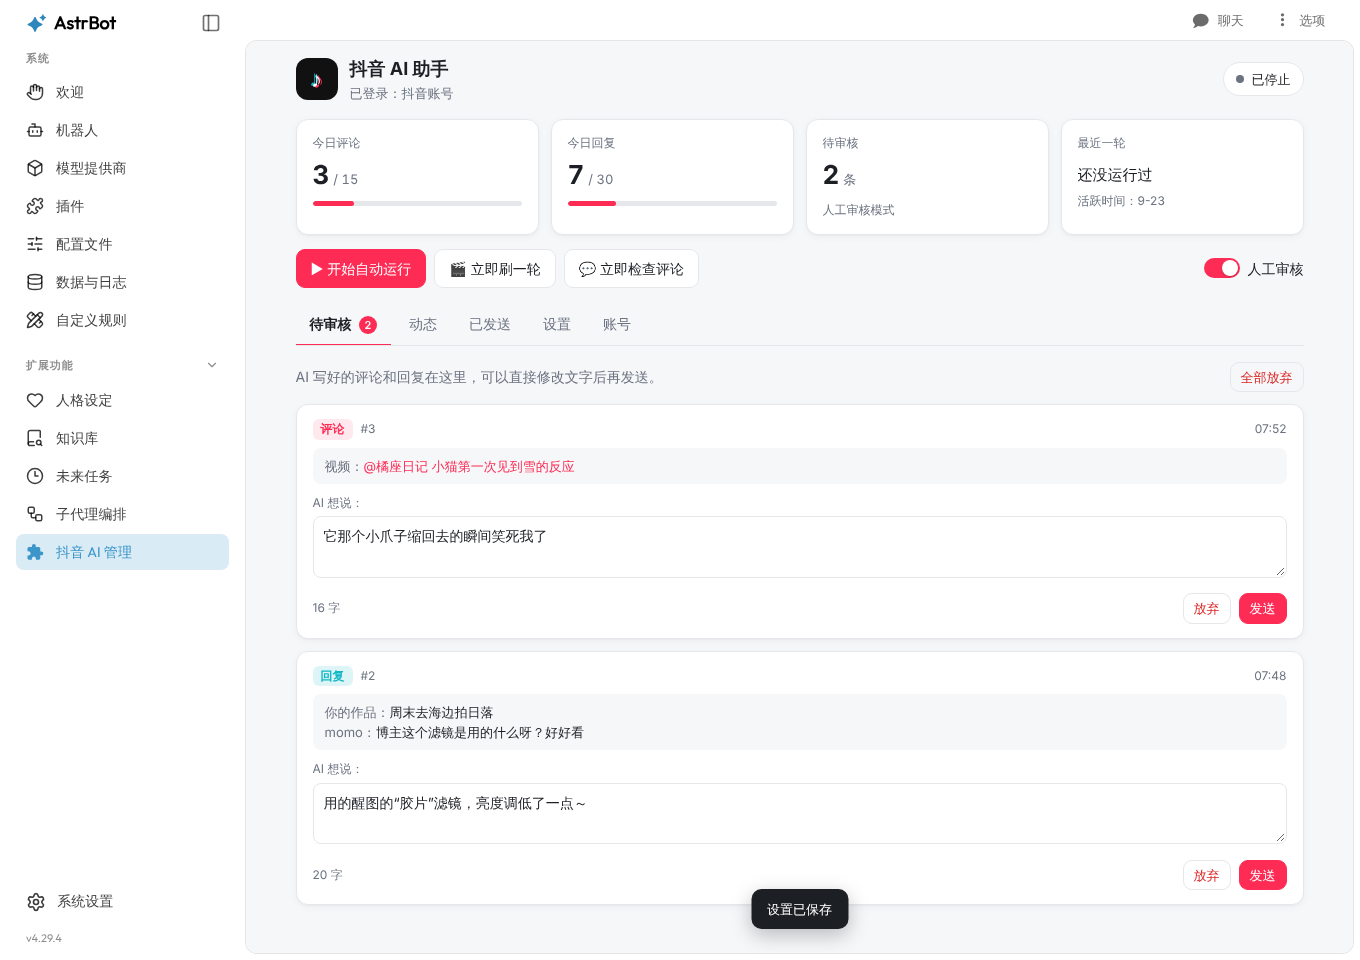
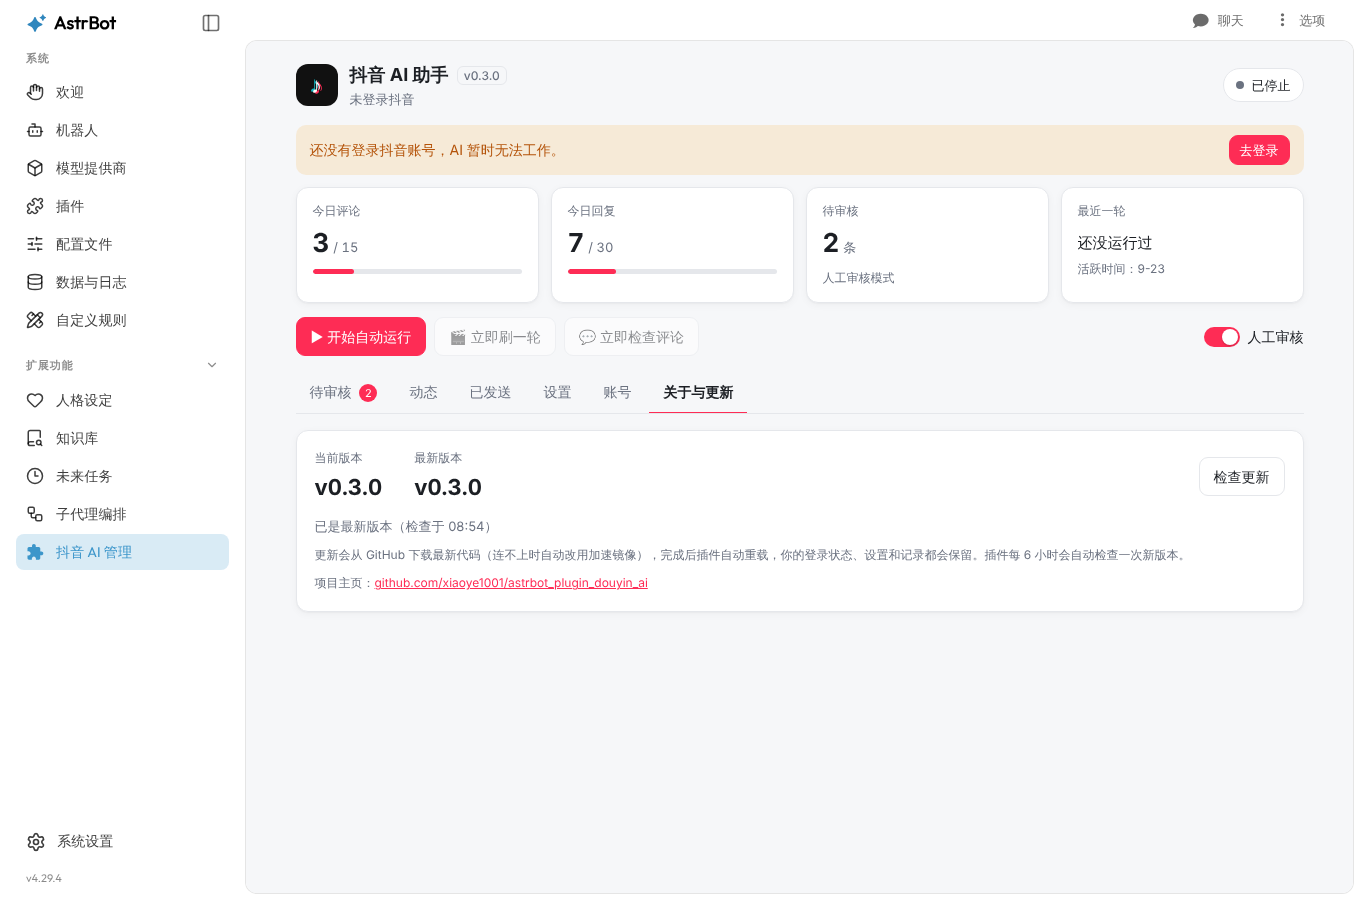
fix: 管理页面的确认操作改用页面内对话框
AstrBot 的插件页面运行在不允许弹窗的沙箱中，window.confirm() 会被直接拦截，
导致「立即更新」「全部放弃」「退出登录」点击无反应。

Claude-Session: https://claude.ai/code/session_01NcUVACVZAuCjn62zH5bUez

diff --git a/views/dashboard/app.js b/views/dashboard/app.js
@@ -51,6 +51,28 @@ function toast(msg, isError = false) {
   toastTimer = setTimeout(() => t.classList.add("hidden"), isError ? 5000 : 2800);
 }
 
+// window.confirm() is blocked inside AstrBot's sandboxed plugin iframe, so use our own dialog
+function askConfirm(message, okText = "确定", danger = false) {
+  return new Promise((resolve) => {
+    const dlg = $("confirm");
+    $("confirm-text").textContent = message;
+    const ok = $("confirm-ok");
+    ok.textContent = okText;
+    ok.className = "btn " + (danger ? "stop" : "primary");
+    dlg.classList.remove("hidden");
+    ok.focus();
+    const done = (v) => {
+      dlg.classList.add("hidden");
+      ok.onclick = $("confirm-cancel").onclick = dlg.onclick = document.onkeydown = null;
+      resolve(v);
+    };
+    ok.onclick = () => done(true);
+    $("confirm-cancel").onclick = () => done(false);
+    dlg.onclick = (e) => e.target === dlg && done(false);
+    document.onkeydown = (e) => e.key === "Escape" && done(false);
+  });
+}
+
 async function call(endpoint, body, button) {
   if (button) button.disabled = true;
   try {
@@ -323,14 +345,18 @@ $("btn-toggle").addEventListener("click", (e) =>
 $("btn-browse").addEventListener("click", (e) => call("control", { action: "browse" }, e.currentTarget));
 $("btn-reply").addEventListener("click", (e) => call("control", { action: "reply" }, e.currentTarget));
 $("quick-review").addEventListener("change", (e) => call("settings", { review_mode: e.target.checked }));
-$("btn-reject-all").addEventListener("click", (e) => {
-  if (confirm(`确定放弃全部 ${state.pending.length} 条待审核内容吗？`)) call("pending/reject", { id: "all" }, e.currentTarget);
+$("btn-reject-all").addEventListener("click", async (e) => {
+  const btn = e.currentTarget;
+  if (await askConfirm(`确定放弃全部 ${state.pending.length} 条待审核内容吗？`, "全部放弃", true))
+    call("pending/reject", { id: "all" }, btn);
 });
 $("btn-update-check").addEventListener("click", (e) => call("update/check", {}, e.currentTarget));
 for (const id of ["btn-update-run", "btn-update-banner"]) {
-  $(id).addEventListener("click", (e) => {
+  $(id).addEventListener("click", async (e) => {
+    const btn = e.currentTarget;
     const u = state.update;
-    if (confirm(`更新到 v${u.latest}？更新期间插件会重载，大约需要几十秒。`)) call("update/run", {}, e.currentTarget);
+    if (await askConfirm(`更新到 v${u.latest}？更新期间插件会重载，大约需要几十秒。`, "立即更新"))
+      call("update/run", {}, btn);
   });
 }
 $("btn-login").addEventListener("click", (e) => call("login/start", {}, e.currentTarget));
@@ -340,8 +366,10 @@ $("btn-cookie").addEventListener("click", async (e) => {
   const res = await call("login/cookie", { cookie }, e.currentTarget);
   if (res) $("cookie-input").value = "";
 });
-$("btn-logout").addEventListener("click", (e) => {
-  if (confirm("退出后需要重新扫码登录，自动运行也会停止。确定退出吗？")) call("login/logout", {}, e.currentTarget);
+$("btn-logout").addEventListener("click", async (e) => {
+  const btn = e.currentTarget;
+  if (await askConfirm("退出后需要重新扫码登录，自动运行也会停止。确定退出吗？", "退出登录", true))
+    call("login/logout", {}, btn);
 });
 
 // ---------------------------------------------------------------- polling

diff --git a/views/dashboard/style.css b/views/dashboard/style.css
@@ -201,6 +201,12 @@ legend { padding: 0 6px; font-weight: 600; }
 .notes-text { margin: 6px 0 0; padding: 12px 14px; background: var(--bg); border-radius: 8px; white-space: pre-wrap; word-break: break-word; font: 13px/1.6 inherit; font-family: inherit; max-height: 320px; overflow: auto; }
 .small-note a { color: var(--accent); }
 
+/* ---------- confirm dialog ---------- */
+.modal { position: fixed; inset: 0; background: rgba(0, 0, 0, 0.45); display: grid; place-items: center; padding: 16px; z-index: 20; }
+.modal-box { background: var(--card); border: 1px solid var(--border); border-radius: 14px; padding: 20px 22px 16px; width: 100%; max-width: 380px; box-shadow: 0 12px 40px rgba(0, 0, 0, 0.25); }
+.modal-box p { margin: 0 0 18px; line-height: 1.6; }
+.modal-actions { display: flex; justify-content: flex-end; gap: 8px; }
+
 /* ---------- empty / toast ---------- */
 .empty { text-align: center; padding: 48px 16px; color: var(--text); background: var(--card); border: 1px dashed var(--border); border-radius: var(--radius); }
 .empty-icon { font-size: 30px; margin-bottom: 6px; }

diff --git a/views/dashboard/index.html b/views/dashboard/index.html
@@ -211,6 +211,15 @@
       </section>
     </div>
 
+    <div class="modal hidden" id="confirm" role="dialog" aria-modal="true">
+      <div class="modal-box">
+        <p id="confirm-text"></p>
+        <div class="modal-actions">
+          <button class="btn ghost" id="confirm-cancel">取消</button>
+          <button class="btn primary" id="confirm-ok">确定</button>
+        </div>
+      </div>
+    </div>
     <div class="toast hidden" id="toast"></div>
     <script type="module" src="./app.js"></script>
   </body>

diff --git a/CHANGELOG.md b/CHANGELOG.md
@@ -2,6 +2,11 @@
 
 本项目的所有重要变更都记录在这里。格式参考 [Keep a Changelog](https://keepachangelog.com/zh-CN/1.1.0/)，版本号遵循 [语义化版本](https://semver.org/lang/zh-CN/)。
 
+## [0.3.1] - 2026-11-08
+
+### 修复
+- 管理页面里「立即更新」「全部放弃」「退出登录」点了没反应：AstrBot 的插件页面不允许浏览器弹窗，改为页面内的确认对话框。
+
 ## [0.3.0] - 2026-11-08
 
 ### 新增
@@ -34,6 +39,7 @@
 - 人工审核模式、每日上限、发言间隔、活跃时间段。
 - `/dy` 系列管理指令。
 
+[0.3.1]: https://github.com/xiaoye1001/astrbot_plugin_douyin_ai/compare/v0.3.0...v0.3.1
 [0.3.0]: https://github.com/xiaoye1001/astrbot_plugin_douyin_ai/compare/v0.2.1...v0.3.0
 [0.2.1]: https://github.com/xiaoye1001/astrbot_plugin_douyin_ai/compare/v0.2.0...v0.2.1
 [0.2.0]: https://github.com/xiaoye1001/astrbot_plugin_douyin_ai/compare/v0.1.0...v0.2.0

diff --git a/README.md b/README.md
@@ -170,7 +170,7 @@ ruff check . && ruff format --check .
 3. 打标签并推送，GitHub Actions 会自动创建 Release：
 
 ```bash
-git tag v0.3.0 && git push origin v0.3.0
+git tag v0.3.1 && git push origin v0.3.1
 ```
 
 推送到 `main` 后，已安装插件的用户就能在管理页面看到更新提示。
